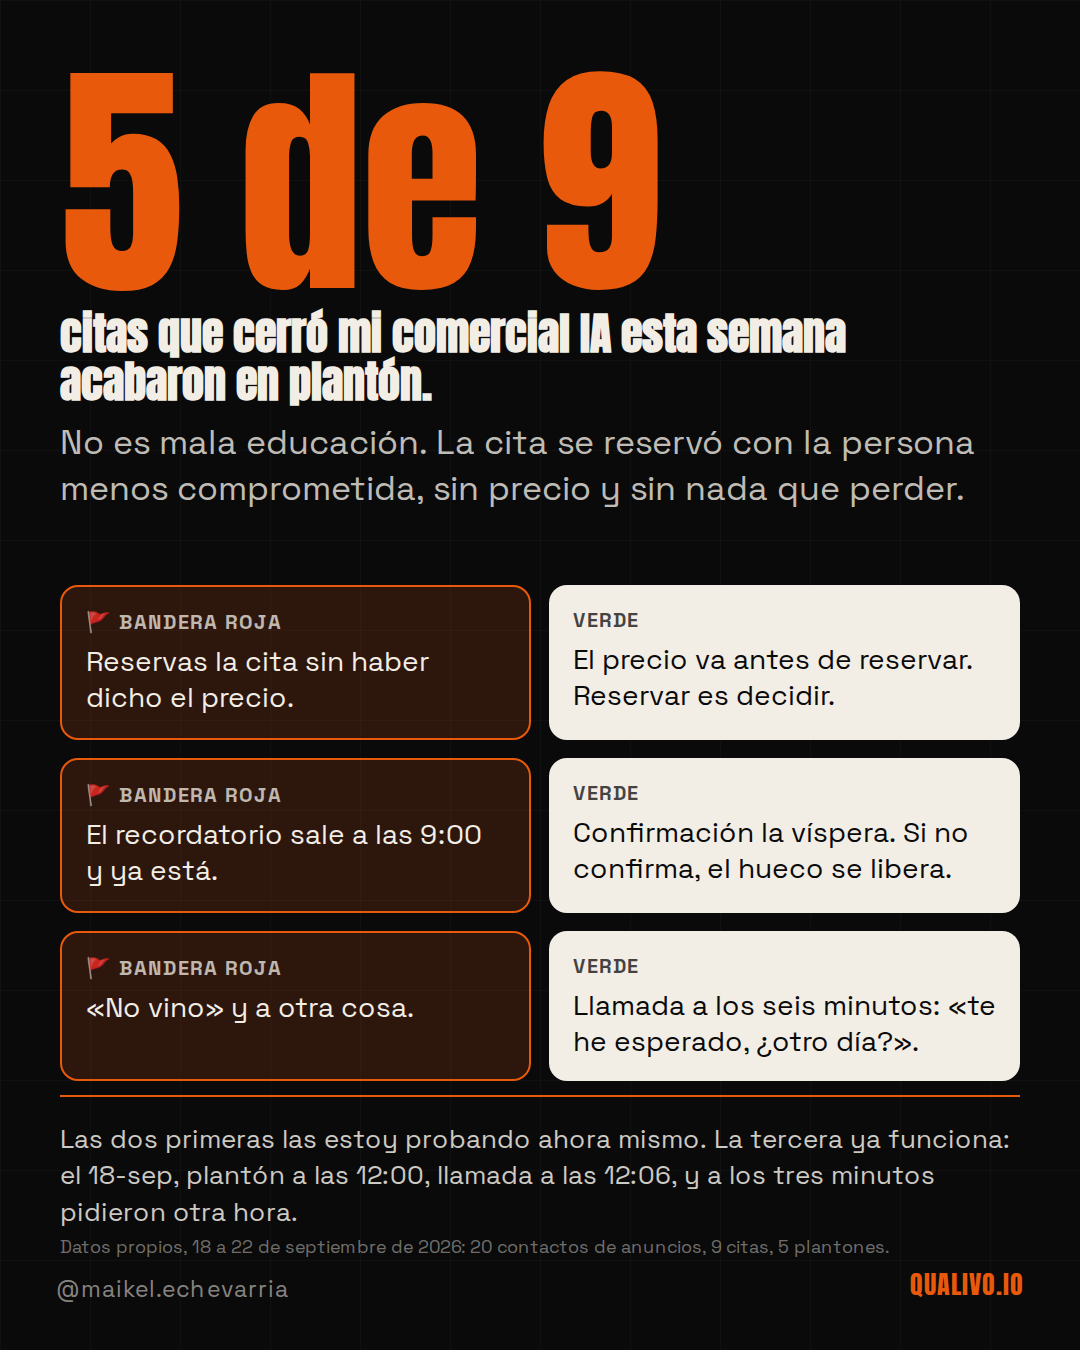
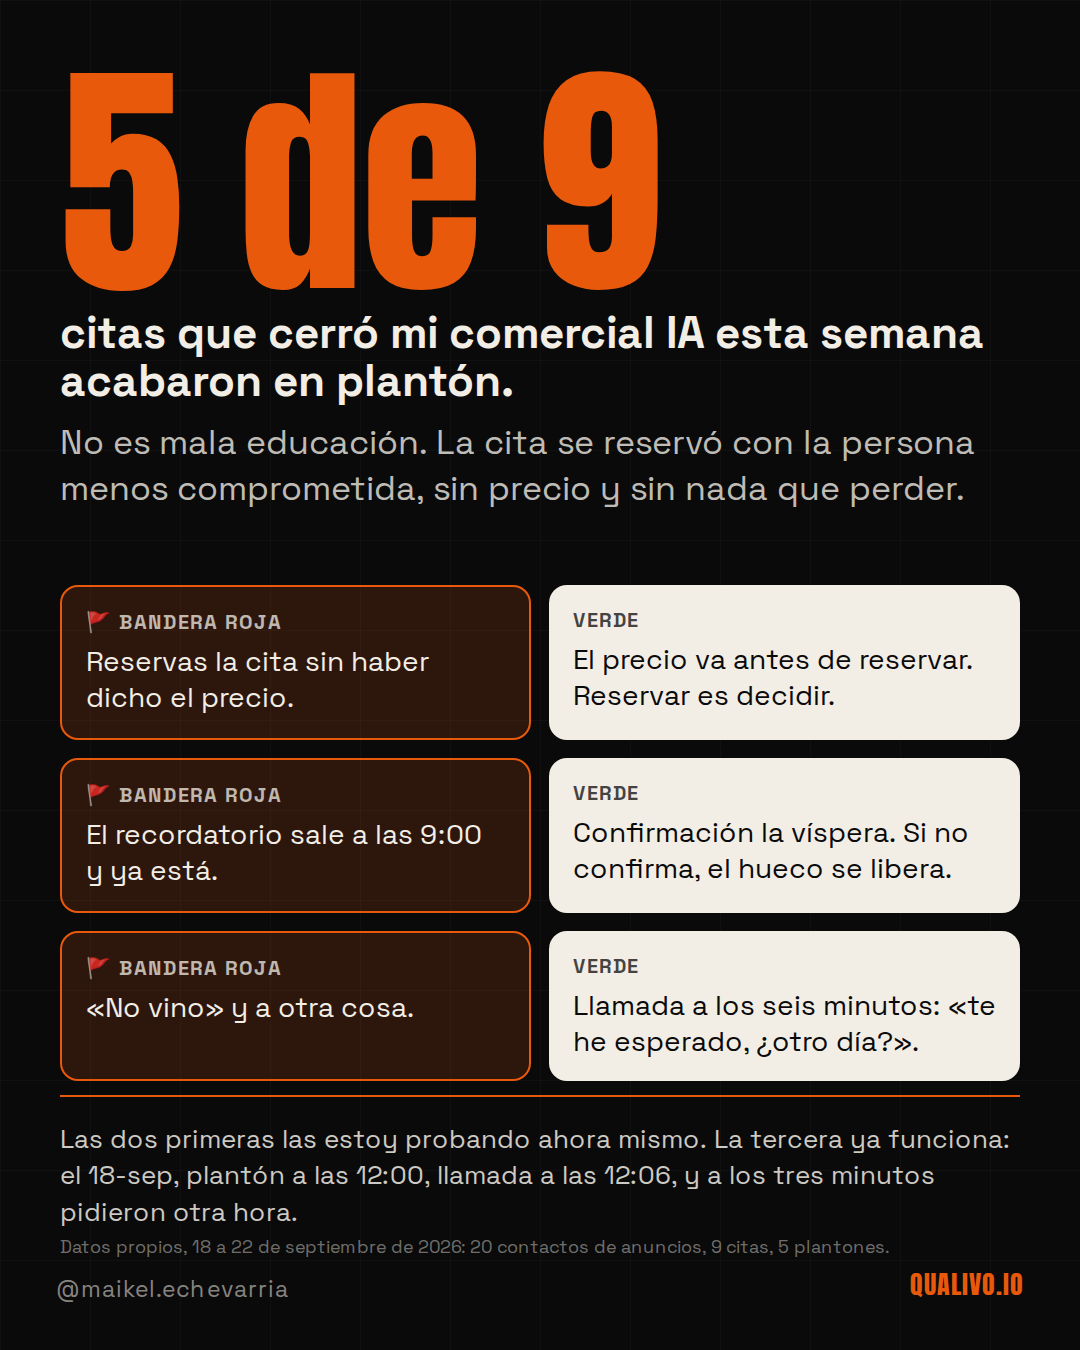
Diario del 23-sep e infografía del miércoles con la fuente corregida
Claude-Session: https://claude.ai/code/session_015zPzMSu62cfqSPYhENKK62

Changed region(s): [[0.0611, 0.2178, 0.9167, 0.3111]]

diff --git a/content/infografias/2026-09-23/bandera-roja-cita.html b/content/infografias/2026-09-23/bandera-roja-cita.html
@@ -1,7 +1,7 @@
 <!DOCTYPE html><html lang="es"><head><meta charset="utf-8"><link rel="stylesheet" href="../2026-09-10/_base.css"><style>
 .page.tinta::after{content:'';position:absolute;inset:0;opacity:.09;background-image:radial-gradient(rgba(242,238,230,.9) .6px,transparent .7px);background-size:4px 4px;pointer-events:none}
 .big{position:absolute;top:70px;left:60px;right:60px;font-family:Anton;font-size:250px;line-height:.9;color:#E8590C;letter-spacing:-.01em}
-.big small{display:block;font-size:44px;line-height:1.1;color:#F2EEE6;font-weight:700;letter-spacing:0;margin-top:14px;text-transform:none}
+.big small{display:block;font-family:SG;font-size:44px;line-height:1.1;color:#F2EEE6;font-weight:700;letter-spacing:0;margin-top:14px;text-transform:none}
 .sub{position:absolute;top:420px;left:60px;right:60px;font-size:34px;line-height:1.35;color:rgba(242,238,230,.8)}
 .filas{position:absolute;top:585px;left:60px;right:60px;display:flex;flex-direction:column;gap:18px}
 .fila{display:grid;grid-template-columns:1fr 1fr;gap:18px}

diff --git a/content/diario-contenido.md b/content/diario-contenido.md
@@ -360,3 +360,71 @@ láminas en el CDN de GHL, post creado. Es la primera pieza publicada en redes
 desde la pausa del 9-sep. LinkedIn sigue parado. Regla nueva: las credenciales
 se piden a Maikel en la sesión y viven en el cuaderno de la sesión, nunca en el
 repositorio.
+
+## Miércoles 23 de septiembre de 2026
+
+### Lo que pasó ayer después del cierre
+El carrusel «Casi 7×» salió en Instagram (@maikel.echevarria) a mediodía por
+el Social Planner de GHL; esta mañana consta como publicado. Es la primera
+pieza en redes desde la pausa del 9-sep. Maikel dejó dos reglas nuevas: fuera
+los lemas que suenan a máquina («sin humo» y parecidos), y el carrusel de
+demostración no lleva el fallo dentro (el fallo va al diario y a la newsletter).
+
+### Publicado
+- **Blog:** https://qualivo.io/blog/cliente-no-se-presenta-a-la-cita/ · «El
+  cliente no se presenta a la cita: por qué pasa y qué hacer en los diez
+  minutos siguientes». Dato propio: semana del 18 al 22 (20 contactos de
+  anuncios, 9 citas, 5 plantones, 1 reunión con propuesta) del brief del
+  recorrido que dejó el agente de operaciones; el plantón del 18-sep con la
+  llamada de las 12:06; el estudio del BMJ Open. La hipótesis «el plantón es
+  de diseño» va marcada como hipótesis. Tarjeta, sitemap, llms.txt y registro.
+- **Reapuntado:** `/blog/seguimiento-comercial/`. Los dos últimos párrafos y
+  el cierre: un solo botón al diagnóstico (antes dos, uno a `/#contacto`),
+  con el dato del CRM propio y el enlace al artículo de presupuestos.
+
+### Borradores (pausa vigente)
+- Miércoles, bandera roja por fuga (reunión):
+  `content/borradores/2026-09-23-bandera-roja-cita.md` con el texto de
+  LinkedIn, el pie de Instagram y la ficha; imagen
+  `content/infografias/2026-09-23/bandera-roja-cita.png` (5 de 9, tres pares
+  rojo/verde). Enlaza con el artículo de hoy en el primer comentario.
+- Newsletter capítulo 1 movida al jueves 24 (`content/newsletter/2026-09-24.md`),
+  como dice la rutina. Sin cambios de texto salvo la fecha y una línea para
+  enlazar el carrusel del martes.
+
+### Decisiones que le pido a Maikel (con recomendación)
+1. **Publicar la bandera roja de hoy en LinkedIn.** Recomiendo sí: es la
+   pieza que mejor casa con el artículo, y LinkedIn lleva dos semanas sin
+   nada. Si dice que sí, la subo yo (ya tengo las credenciales de GHL en la
+   sesión) o le paso el texto para su perfil.
+2. **La newsletter del jueves:** levantar la pausa para LinkedIn (newsletter
+   nativa) y confirmar el correo individual a los leads sin cita con la
+   cadencia terminada. Recomiendo las dos cosas.
+3. **La tasa de plantones (5 de 9) en abierto.** Recomiendo publicarla: es el
+   dato propio más honesto de la semana y va con la mejora al lado.
+
+### Descartes
+- Segundo artículo: no, el de plantones es largo.
+- Contar en la pieza del día el «¿eres una máquina?» del 22-sep (Raquel lo
+  negó y la señora colgó). Es una historia buena, pero hoy toca bandera roja y
+  la regla es más aciertos que fallos. Queda para el diario del jueves o la
+  newsletter del capítulo 2, con la regla nueva («sí, soy la asistente de IA
+  de Máikel») como acierto.
+- Newsletter hoy: no, la rutina la fija el jueves.
+
+### Dudas que dejo escritas
+- Dos pruebas anunciadas en el artículo (precio antes de reservar,
+  confirmación la víspera con hueco que se libera) están en el brief como
+  «para discutir», no como aplicadas. El artículo dice «en marcha, sin
+  resultado todavía». Si Maikel no las arranca esta semana, hay que
+  corregir esa frase.
+- El nombre que se ve en el CRM del lead de reformas (constructora) no sale
+  en ninguna pieza; en la tabla del artículo va como «una constructora».
+
+### Hipótesis para mañana
+- Si la bandera roja sale en LinkedIn, el artículo de plantones debería
+  recibir más visitas que el de presupuestos en sus primeras 48 horas, por el
+  enlace en el primer comentario. Se mira el viernes en el ritual.
+- Jueves: capítulo 1 de la newsletter (ya escrito) y el vídeo a cámara del
+  CRM; diario «Agentizando mi propia empresa» en LinkedIn con el «¿eres una
+  máquina?» contado como regla nueva.
